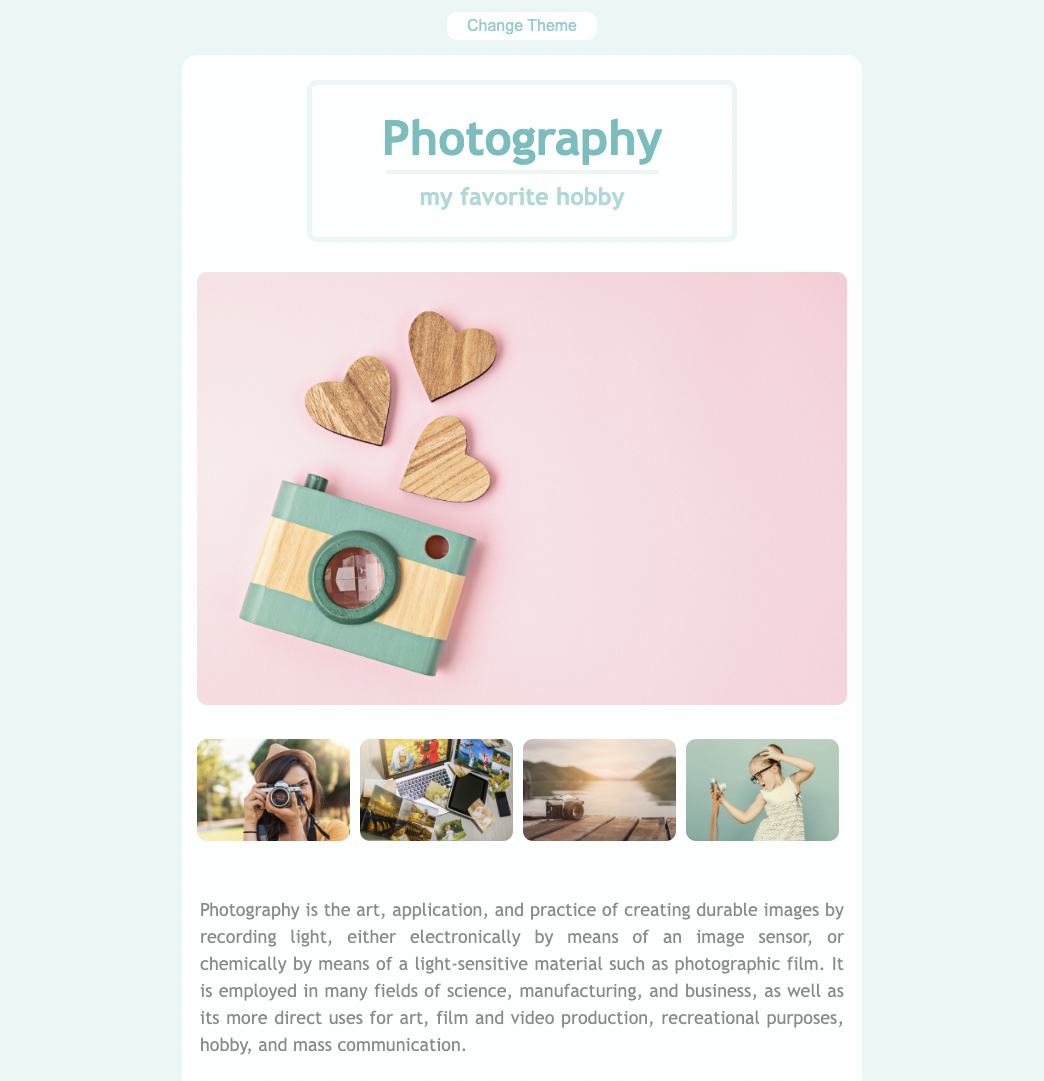
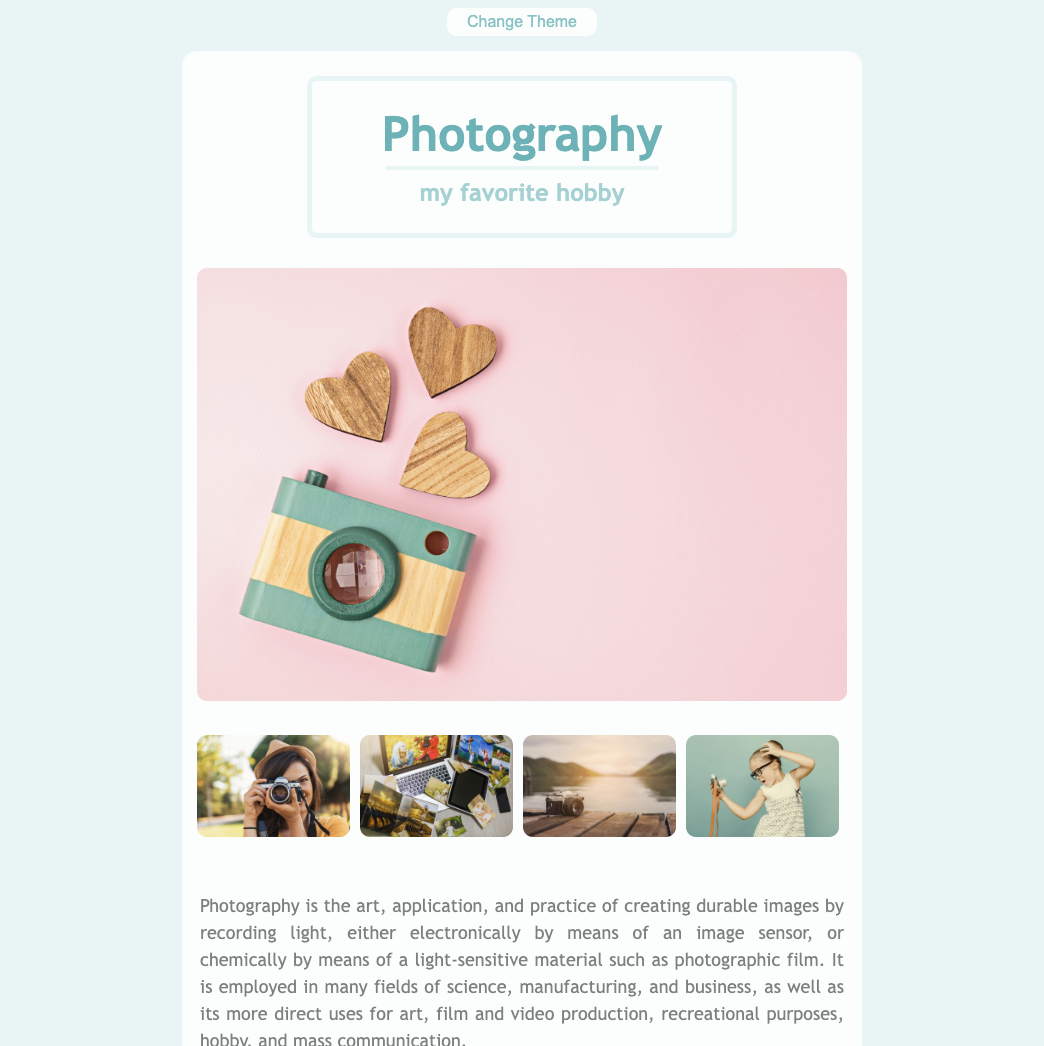
Added content to the work page & changed class names to make the css more reusable

diff --git a/work1.html b/work1.html
@@ -1,0 +1,91 @@
+<!DOCTYPE html>
+<html lang="en">
+  <head>
+    <meta charset="UTF-8" />
+    <meta http-equiv="X-UA-Compatible" content="IE=edge" />
+    <meta name="viewport" content="width=device-width, initial-scale=1.0" />
+    <meta name="description" content="" />
+
+    <title>Julie Gardner Portfolio</title>
+
+    <link
+      href="https://cdn.jsdelivr.net/npm/bootstrap@5.3.0-alpha1/dist/css/bootstrap.min.css"
+      rel="stylesheet"
+      integrity="sha384-GLhlTQ8iRABdZLl6O3oVMWSktQOp6b7In1Zl3/Jr59b6EGGoI1aFkw7cmDA6j6gD"
+      crossorigin="anonymous"
+    />
+    <link rel="preconnect" href="https://fonts.googleapis.com" />
+    <link rel="preconnect" href="https://fonts.gstatic.com" crossorigin />
+    <link
+      href="https://fonts.googleapis.com/css2?family=Playfair+Display:wght@700&family=Poppins:wght@200;500;700&display=swap"
+      rel="stylesheet"
+    />
+    <link rel="stylesheet" href="/css/styles.css" />
+
+    <script
+      src="https://cdn.jsdelivr.net/npm/bootstrap@5.3.0-alpha1/dist/js/bootstrap.bundle.min.js"
+      integrity="sha384-w76AqPfDkMBDXo30jS1Sgez6pr3x5MlQ1ZAGC+nuZB+EYdgRZgiwxhTBTkF7CXvN"
+      crossorigin="anonymous"
+    ></script>
+    <script
+      src="https://kit.fontawesome.com/44c83a15dd.js"
+      crossorigin="anonymous"
+    ></script>
+  </head>
+  <body>
+    <div class="content-container container">
+      <div class="content">
+        <div class="row">
+          <div class="col-6">
+            <h1 class="mb-5">Take a look at what I've been working on!</h1>
+            <div class="col-6"></div>
+          </div>
+        </div>
+        <div class="row">
+          <div class="col-md-6 mb-4">
+            <img
+              src="/images/photography-light.png"
+              alt="photography hobby landing page"
+              class="img-fluid"
+            />
+            <h3 class="text-center">Photography Web Page Project</h3>
+            <p class="text-center text-muted">Built with HTML and CSS</p>
+          </div>
+          <div class="col-md-6 mb-4">
+            <img
+              src="/images/grand-canyon.png"
+              alt="grand canyon landing page"
+              class="img-fluid"
+            />
+            <h3 class="text-center">Travel Web Page Project</h3>
+            <p class="text-center text-muted">Built with HTML and CSS</p>
+          </div>
+        </div>
+        <div class="row">
+          <div class="col-md-6 mb-4">
+            <img
+              src="/images/weather-app.png"
+              alt="weather search application"
+              class="img-fluid"
+            />
+            <h3 class="text-center">Weather Application Project</h3>
+            <p class="text-center text-muted">
+              Built with HTML, CSS, and JavaScript
+            </p>
+          </div>
+          <div class="col-md-6 mb-4">
+            <img
+              src="/images/world-clock.png"
+              alt="world timezone clock application"
+              class="img-fluid"
+            />
+            <h3 class="text-center">Weather Application Project</h3>
+            <p class="text-center text-muted">
+              Built with HTML, CSS, and JavaScript
+            </p>
+          </div>
+        </div>
+      </div>
+    </div>
+  </body>
+</html>

diff --git a/css/styles.css b/css/styles.css
@@ -34,7 +34,6 @@ p {
 }
 
 img {
-  max-width: 100%;
   border-radius: 10px;
 }
 
@@ -53,32 +52,43 @@ img {
   font-weight: normal;
 }
 
-.about-section {
+.content-container {
   padding: 160px 20px;
 }
 
-.about-section-content {
-  margin: 30px;
+.content {
+  margin-right: 30px;
 }
 
-.about-section h1 {
+.content img {
+  display: block;
+  margin: 0 auto;
+}
+
+.content h1 {
   font-size: 64px;
   line-height: 80px;
 }
 
-.about-section h2 {
+.content h2 {
   font: var(--default-font-family);
   font-weight: bold;
   font-size: 18px;
 }
 
-.about-section p {
-  font-weight: 200px;
-  font-size: 16px;
-  line-height: 1.8;
+.content h3 {
+  font: var(--default-font-family);
+  font-size: 24px;
+  line-height: 1.5;
+  margin: 20px 0 0;
 }
 
-.about-section img {
+.content p {
+  font-weight: 200px;
+  font-size: 14px;
+}
+
+.content img {
   max-width: 80%;
 }
 
@@ -127,13 +137,13 @@ img {
     line-height: 1.5;
   }
 
-  .about-section {
+  .content {
     text-align: center;
     padding: 0;
     grid-column: auto;
   }
 
-  .about-section .btn {
+  .content-container .btn {
     margin-bottom: 20px;
   }
 

diff --git a/about.html b/about.html
@@ -33,10 +33,10 @@
     ></script>
   </head>
   <body>
-    <div class="about-section container">
+    <div class="content-container container">
       <div class="row">
         <div class="col-lg">
-          <div class="about-section-content">
+          <div class="content">
             <h1 class="mb-4">Hi! I am Julie Gardner</h1>
             <h2 class="opacity-75 mb-4">
               Front-end Developer, based in Corpus Christi, Texas
